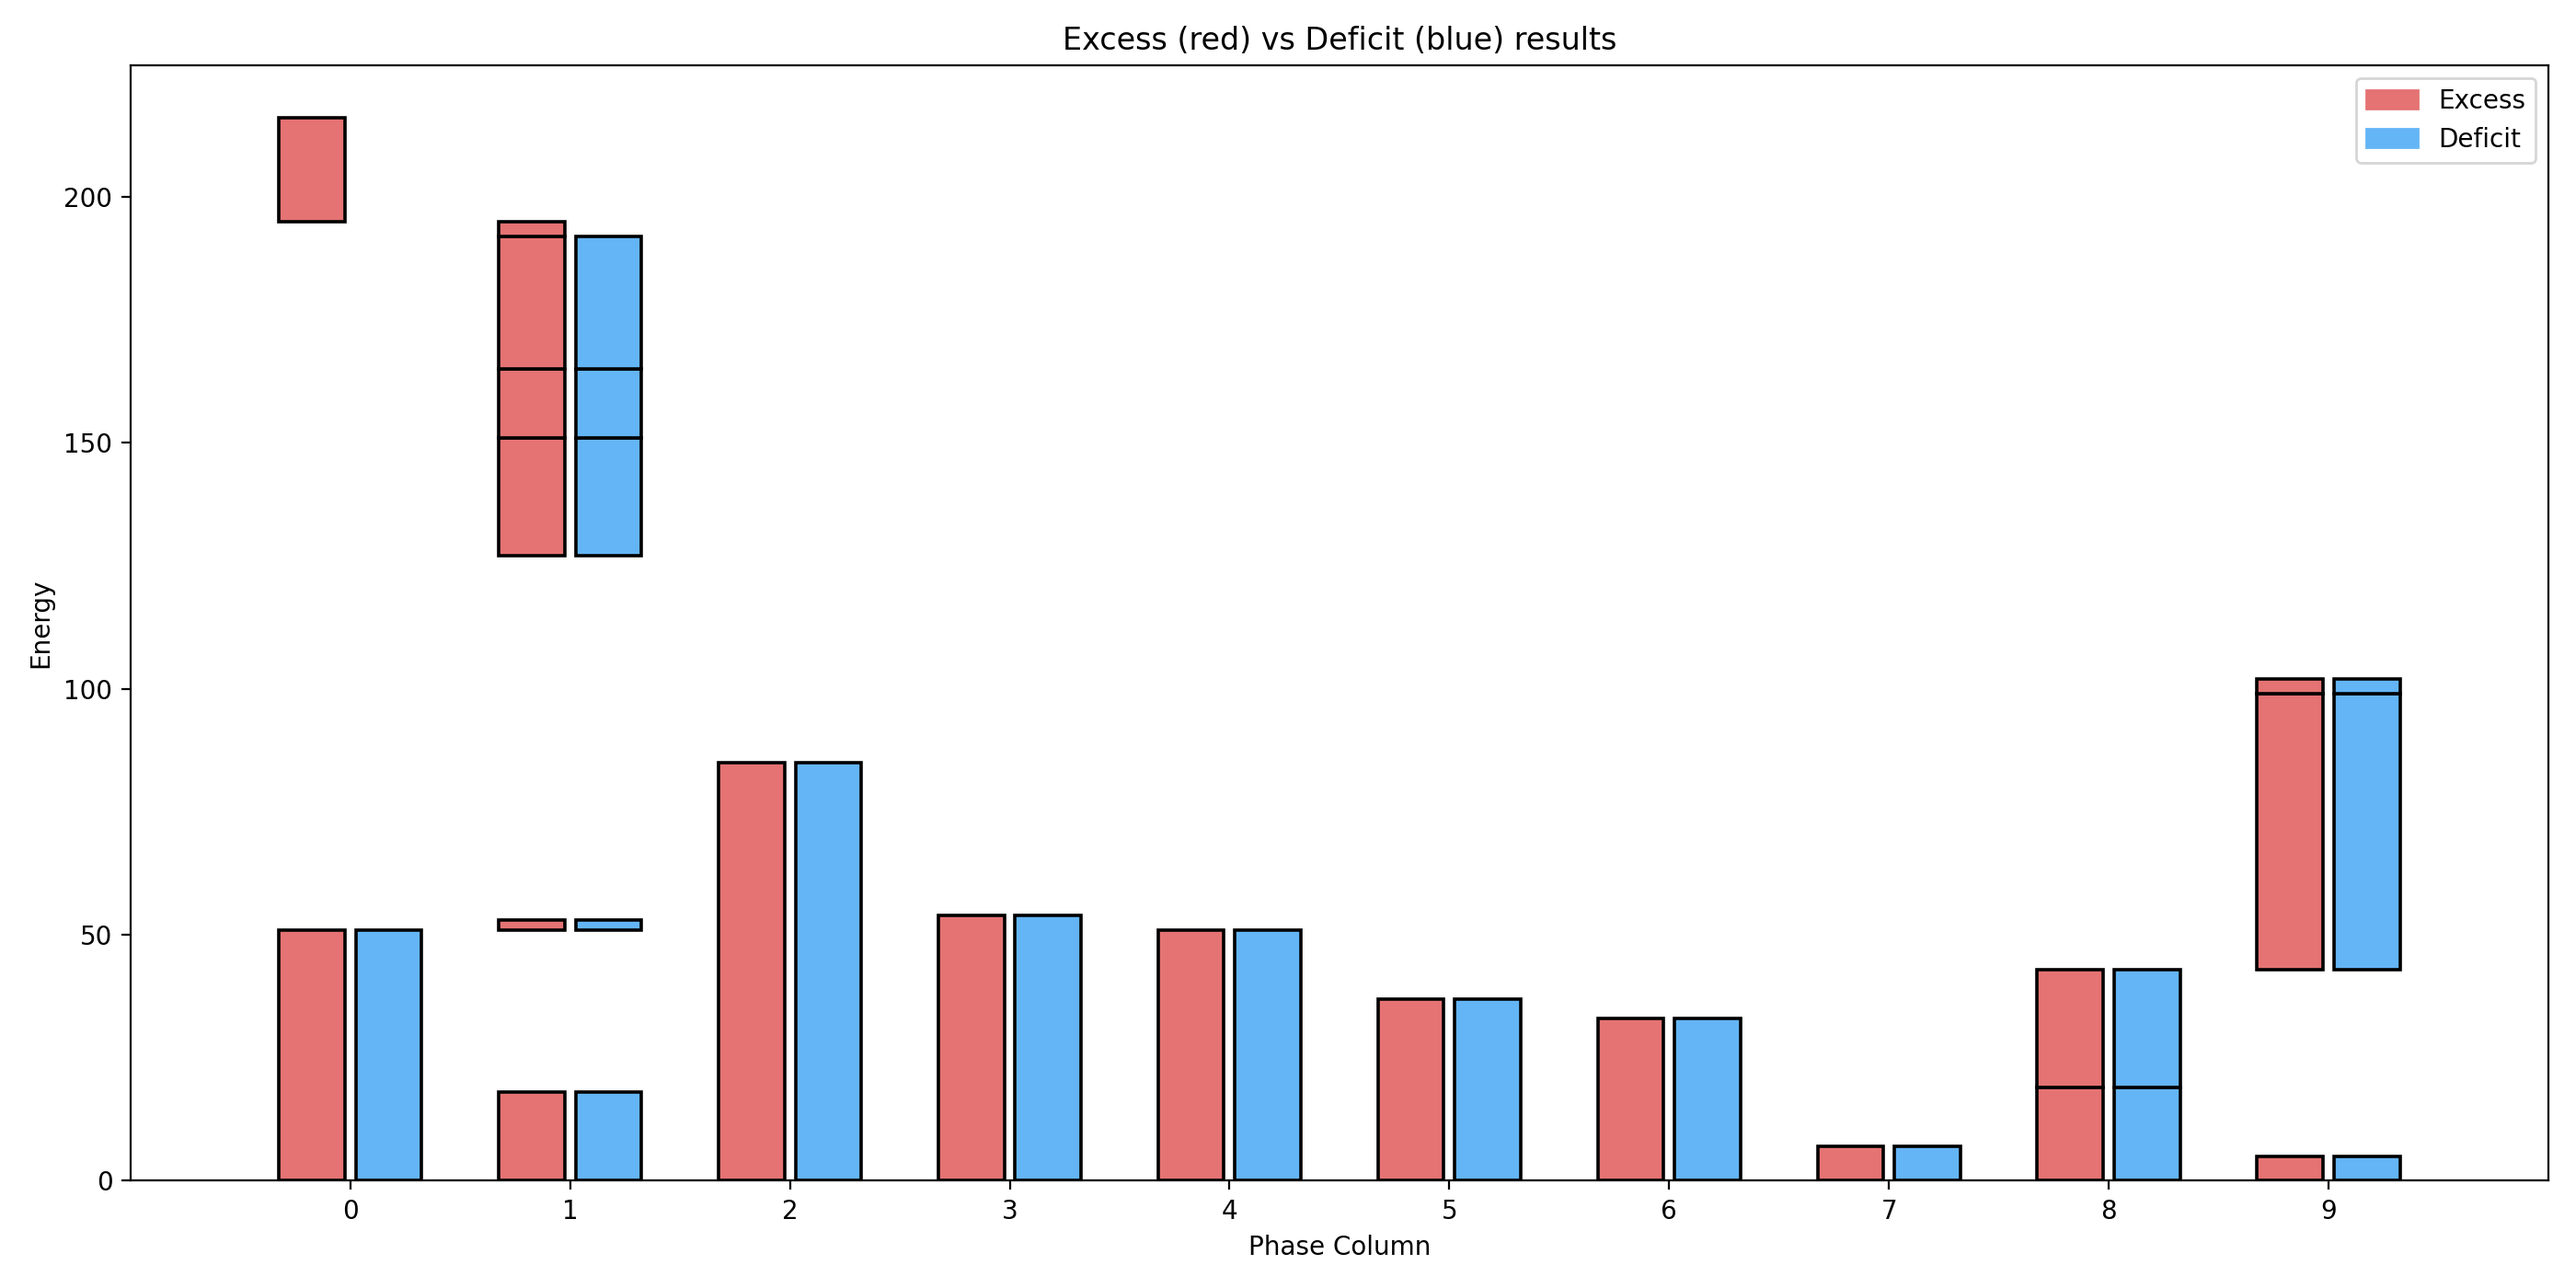
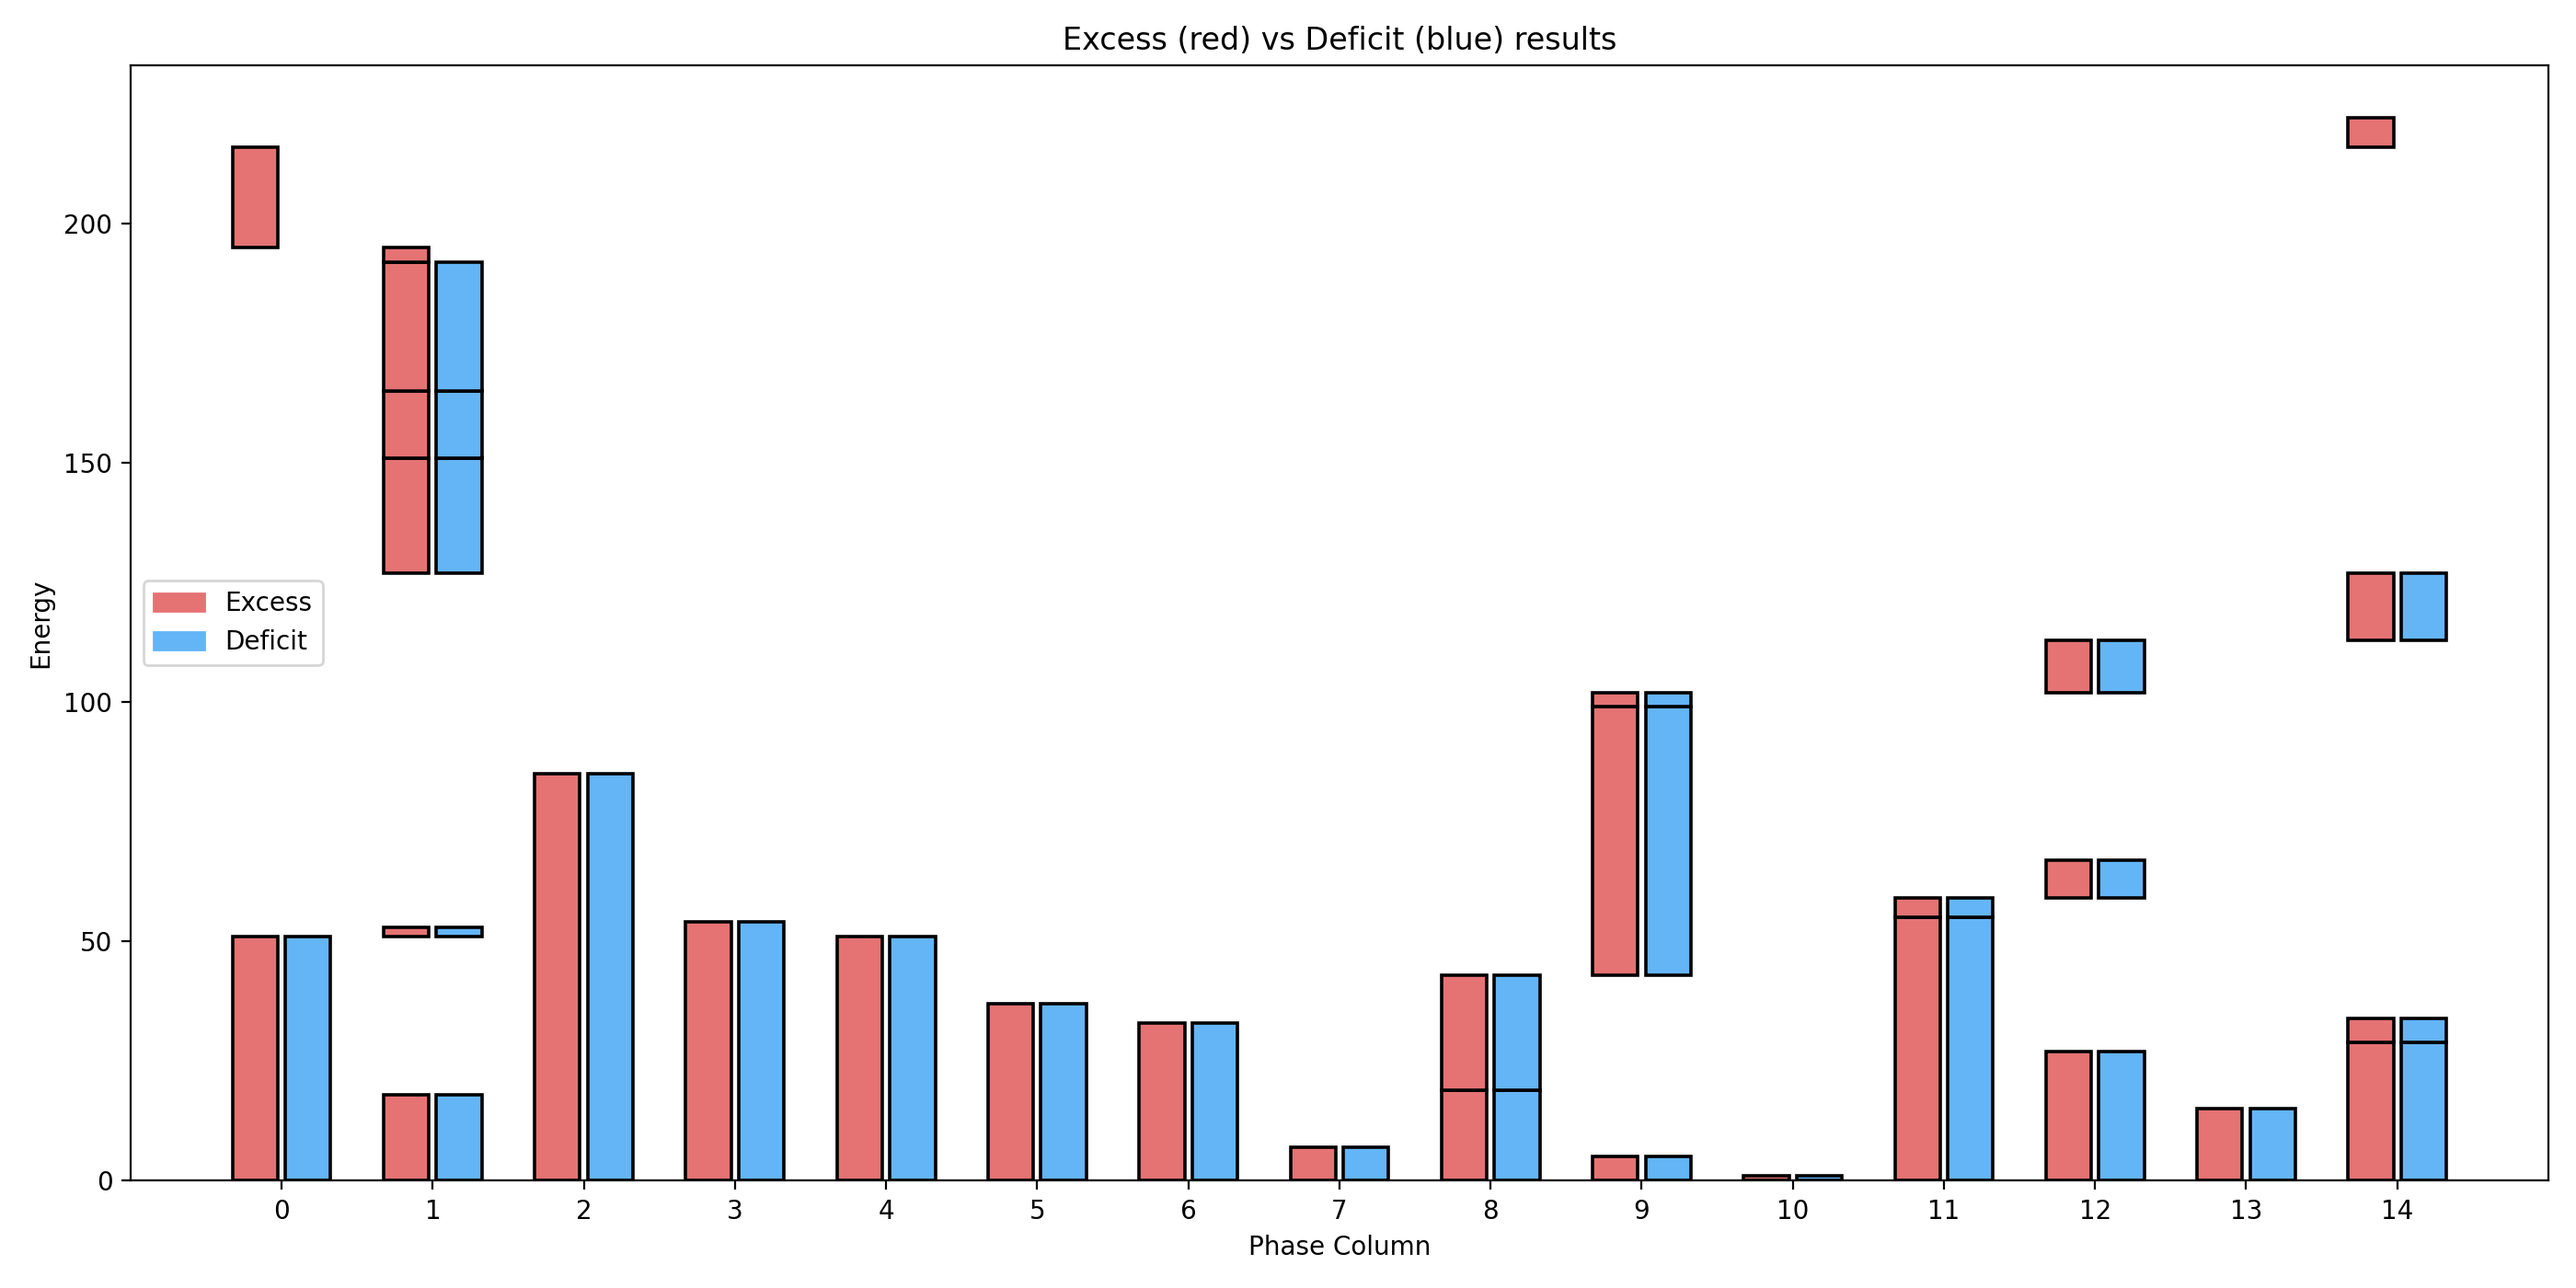
added even more results

diff --git a/run.py b/run.py
@@ -29,4 +29,4 @@ if __name__ == '__main__':
 
     #test_version_solo("new_version", True, 200000)
 
-    visualize(cfg,"new_version_fusion" , phase=10, max_cols = 20, case = "worst_case")
+    visualize(cfg,"original_simplified" , phase=15, max_cols = 20, case = "average_case")
